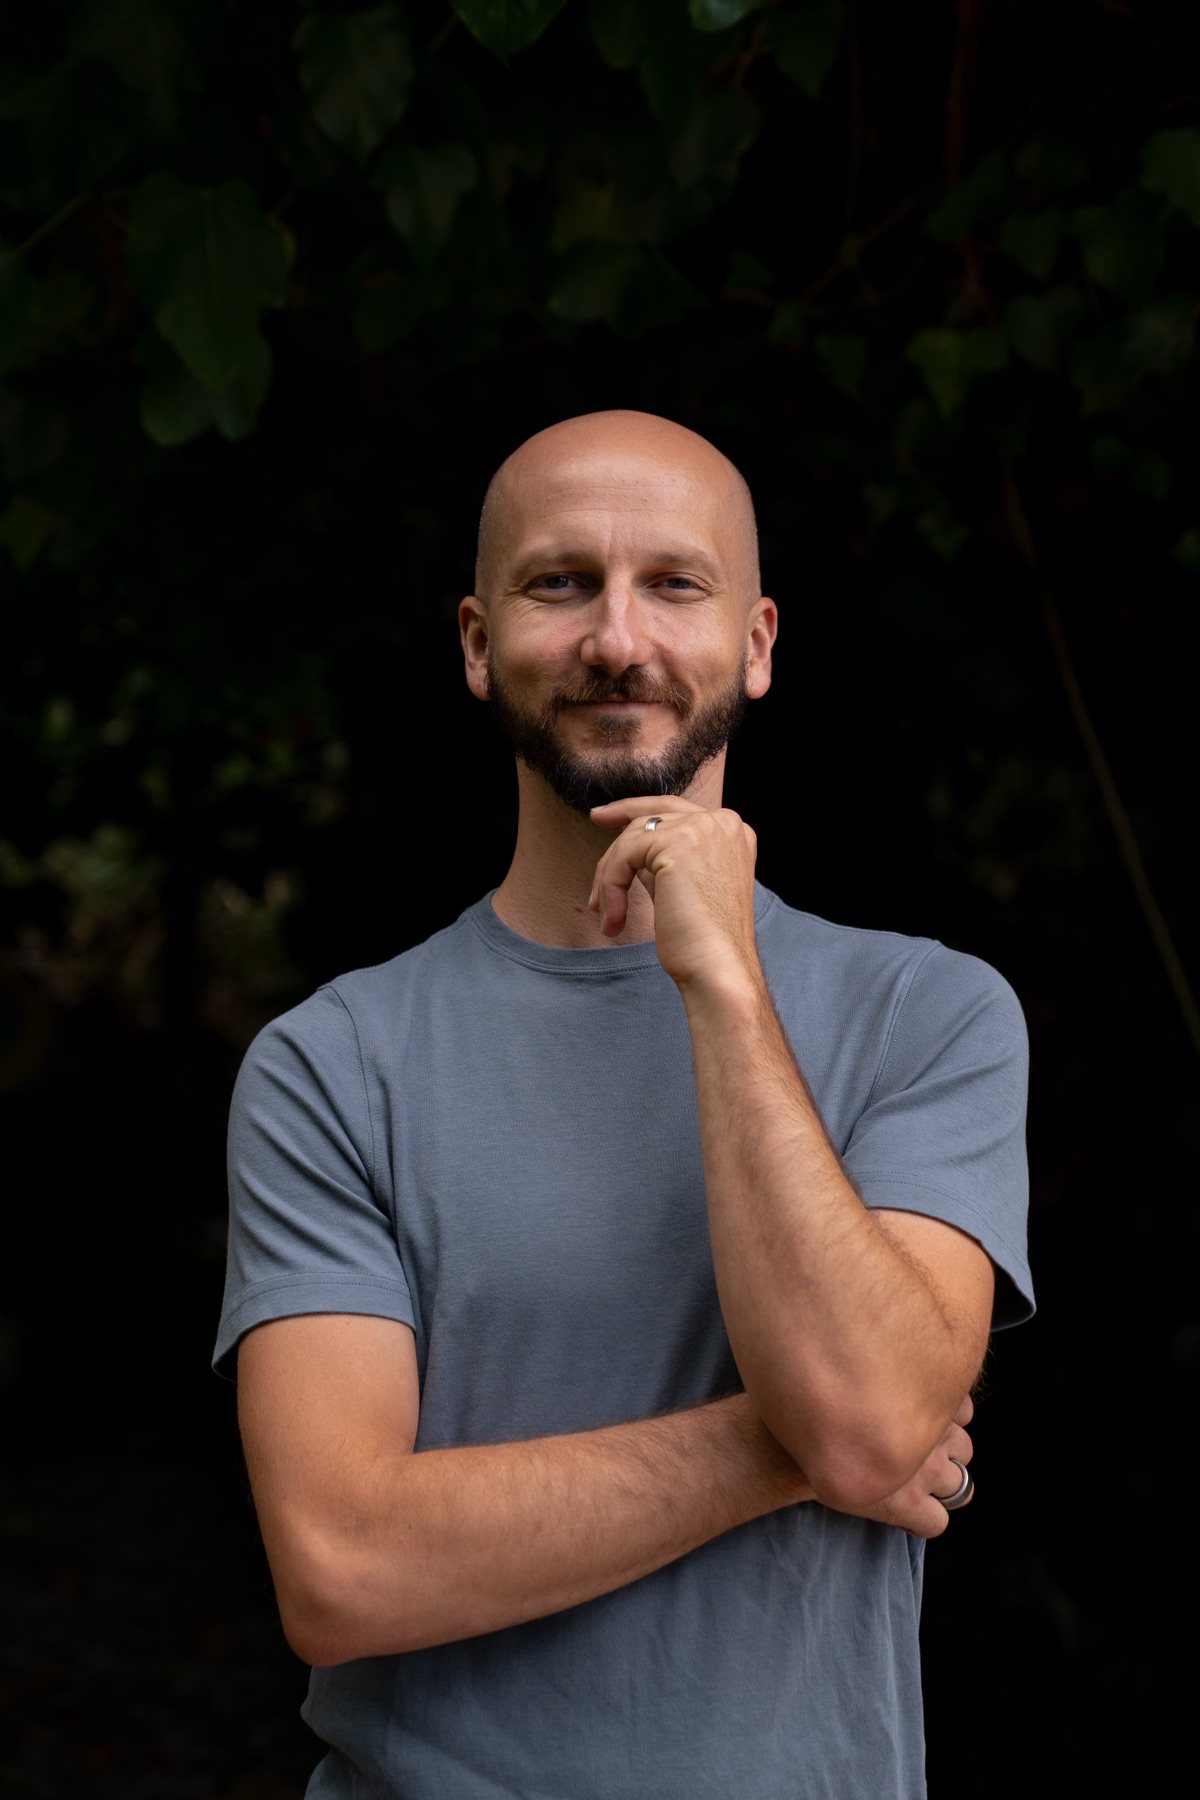
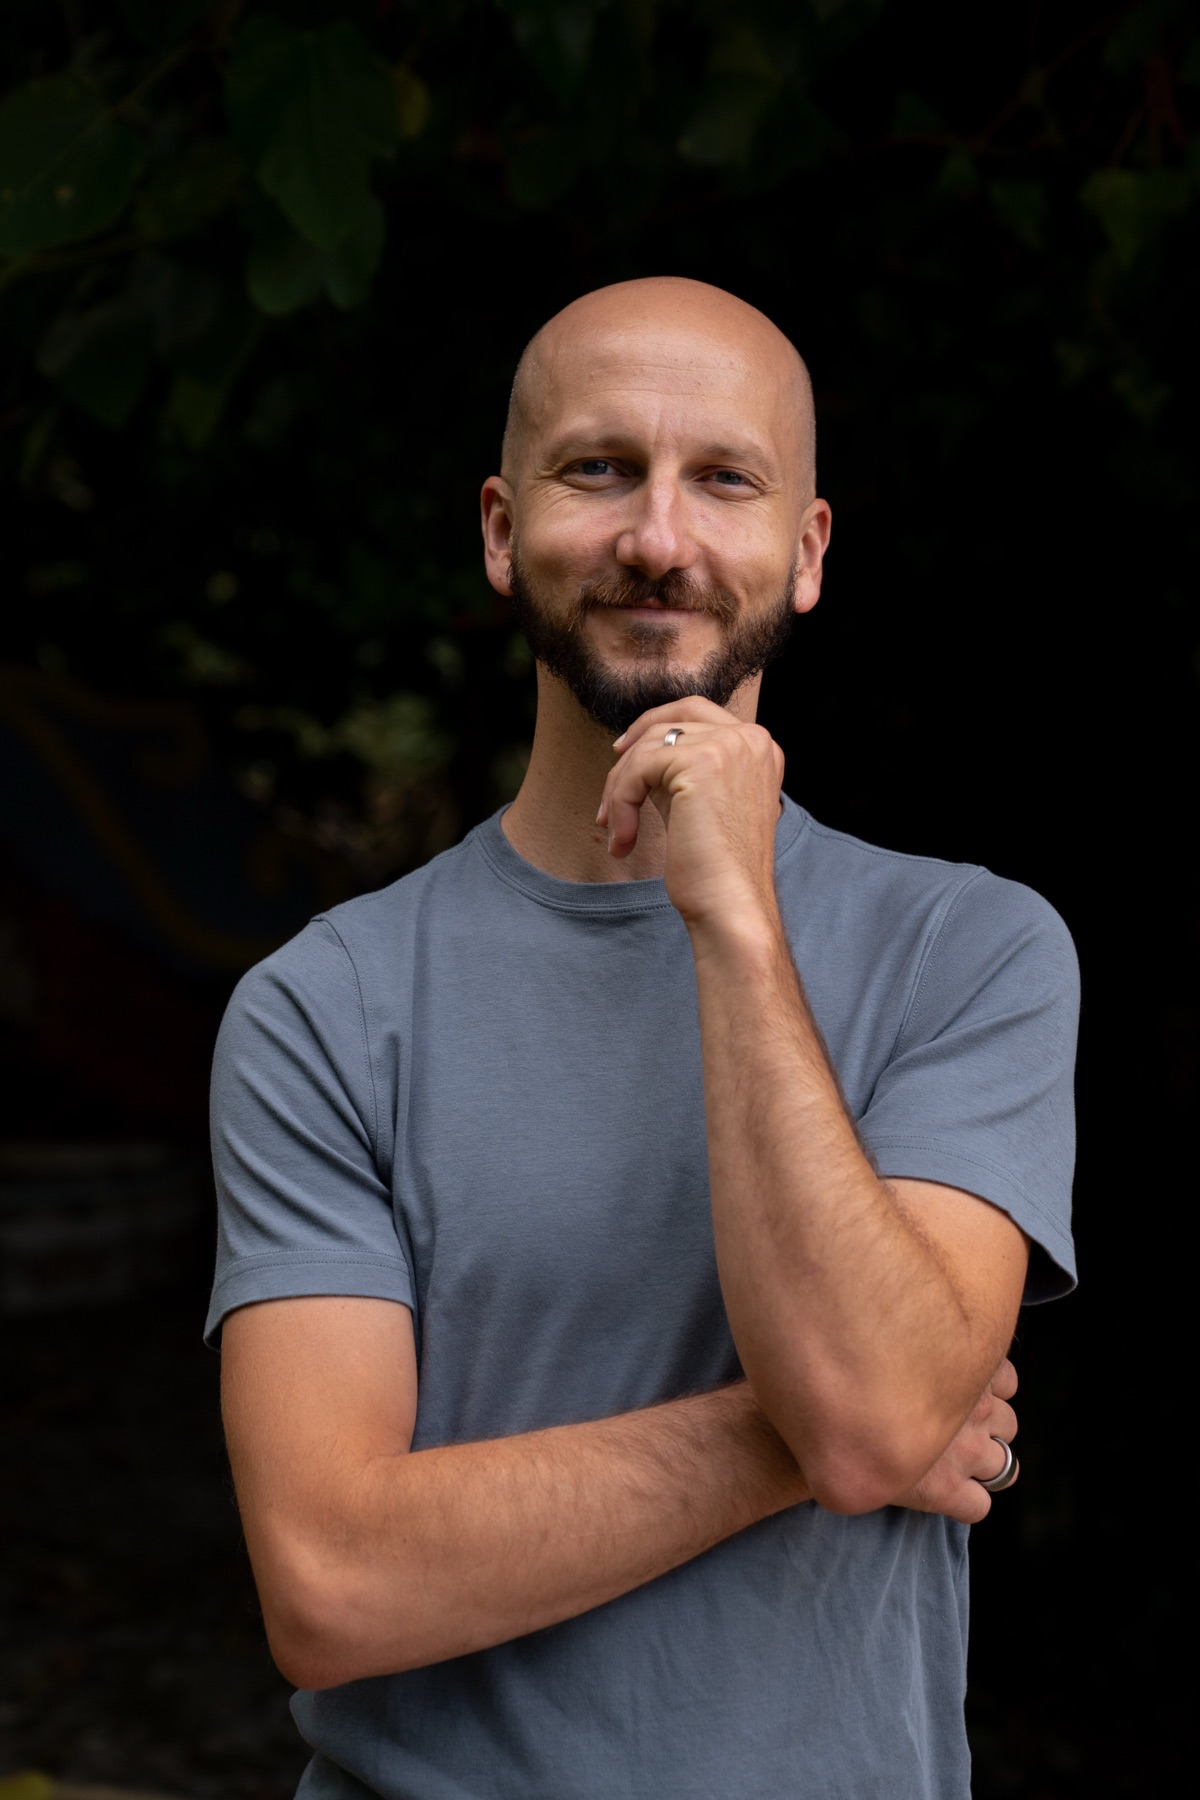
Refresh portraits and booking calendar

diff --git a/contact/index.html b/contact/index.html
@@ -123,18 +123,18 @@
           </div>
           <div class="cal-embed-shell">
             <div style="width:100%;height:100%;overflow:scroll" id="my-cal-inline-exploration-session">
-              <p class="cal-embed-fallback">Loading the calendar&hellip; <a href="https://cal.com/robertochavarria/session">Open the booking page directly</a>.</p>
+              <p class="cal-embed-fallback">Loading the calendar&hellip; <a href="https://cal.com/robertochavarria/exploration-session">Open the booking page directly</a>.</p>
             </div>
           </div>
           <script type="text/javascript">
             (function (C, A, L) { let p = function (a, ar) { a.q.push(ar); }; let d = C.document; C.Cal = C.Cal || function () { let cal = C.Cal; let ar = arguments; if (!cal.loaded) { cal.ns = {}; cal.q = cal.q || []; d.head.appendChild(d.createElement("script")).src = A; cal.loaded = true; } if (ar[0] === L) { const api = function () { p(api, arguments); }; const namespace = ar[1]; api.q = api.q || []; if(typeof namespace === "string"){cal.ns[namespace] = cal.ns[namespace] || api;p(cal.ns[namespace], ar);p(cal, ["initNamespace", namespace]);} else p(cal, ar); return;} p(cal, ar); }; })(window, "https://app.cal.com/embed/embed.js", "init");
             Cal("init", "exploration-session", {origin:"https://app.cal.com"});
             Cal.config = Cal.config || {};
-            Cal.config.forwardQueryParams = false;
+            Cal.config.forwardQueryParams = true;
             Cal.ns["exploration-session"]("inline", {
               elementOrSelector:"#my-cal-inline-exploration-session",
               config: {"layout":"month_view","useSlotsViewOnSmallScreen":"true"},
-              calLink: "robertochavarria/session"
+              calLink: "robertochavarria/exploration-session"
             });
             Cal.ns["exploration-session"]("ui", {"hideEventTypeDetails":false,"layout":"month_view"});
           </script>

diff --git a/styles.css b/styles.css
@@ -884,10 +884,17 @@ em.key {
 }
 .contact-card img {
   width: 100%;
-  height: 300px;
-  object-fit: cover;
-  object-position: 50% 22%;
+  height: auto;
   display: block;
+}
+
+/* Keep the new portrait whole rather than forcing it into a shallow crop. */
+.context-portrait {
+  display: block;
+  width: 100%;
+  height: auto;
+  margin-top: 28px;
+  border: 1px solid var(--line-soft);
 }
 .contact-card .cc-body {
   padding: 32px 34px;

diff --git a/work/index.html b/work/index.html
@@ -195,6 +195,7 @@
               earlier, and judge new decisions against the larger direction of
               the company.
             </p>
+            <img class="context-portrait" src="/images/roberto-value-of-context-2026.jpg" alt="Roberto Chavarria in conversation" width="1200" height="1800" loading="lazy">
           </div>
         </div>
       </div>
